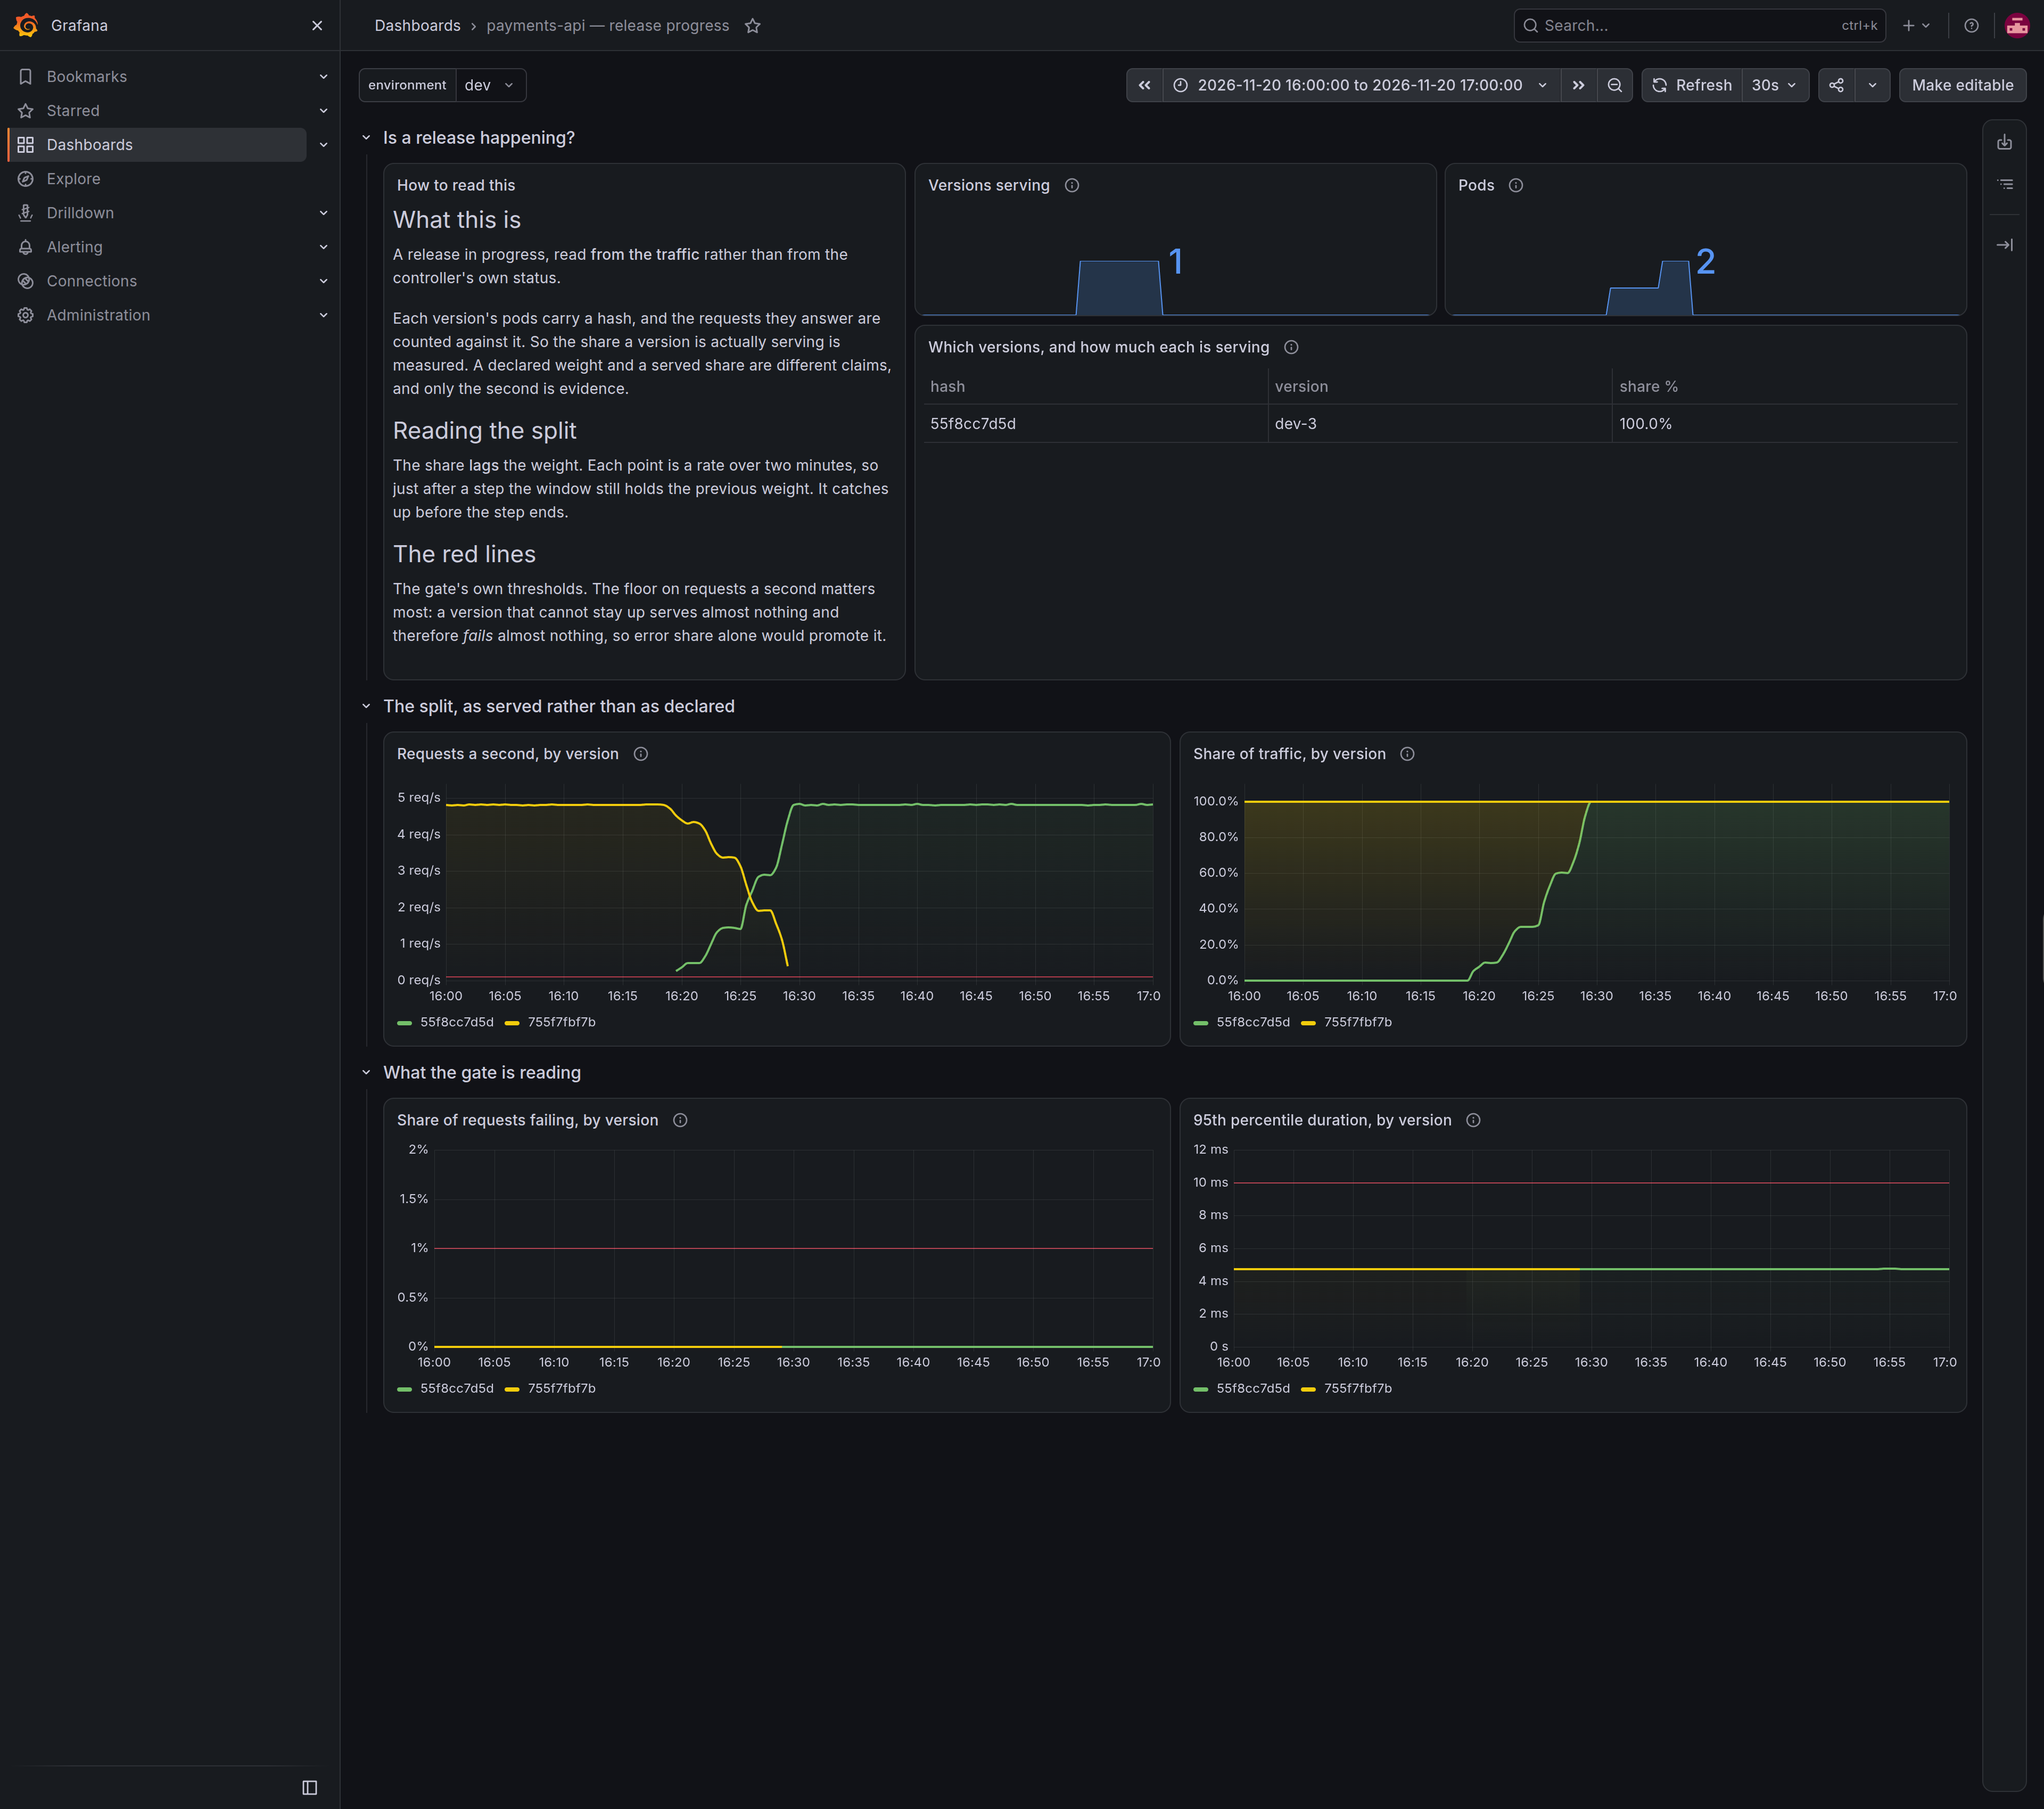
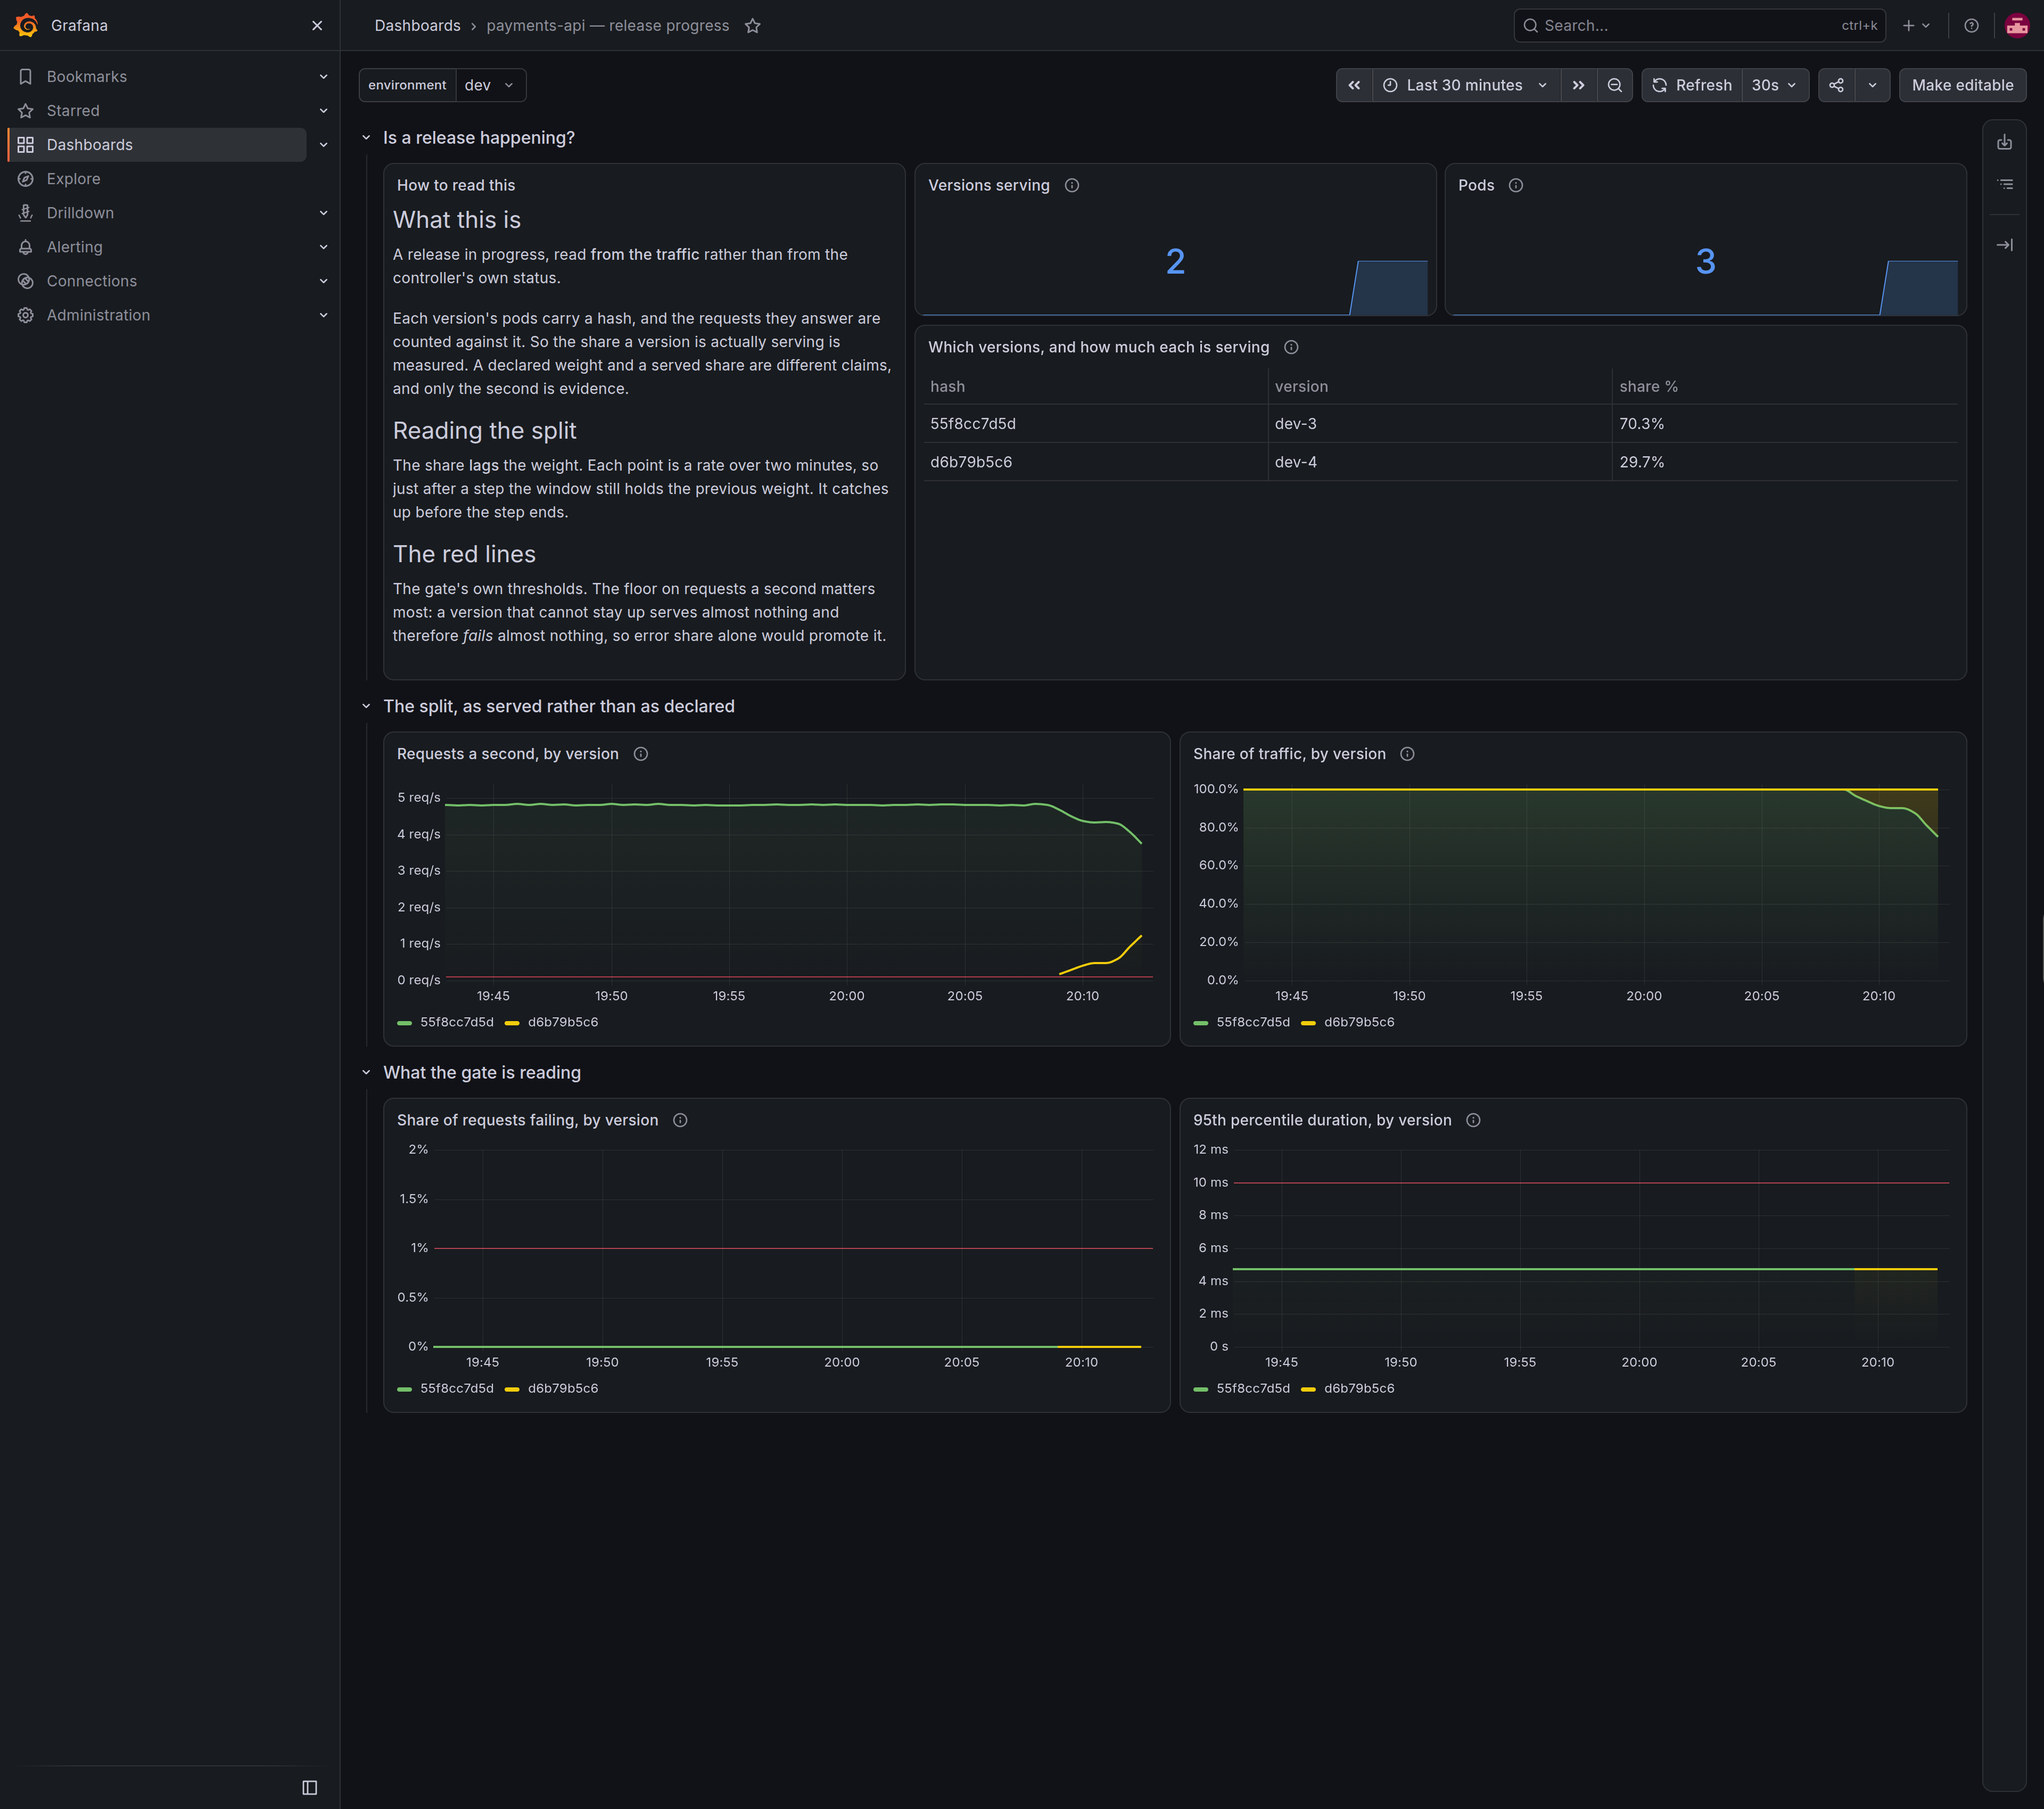
Commit evidence from a running platform, and show it in the README

diff --git a/README.md b/README.md
@@ -67,10 +67,11 @@ closely: a version that cannot stay up serves almost nothing and therefore
 version on a perfect record.** That is not theoretical — it is demonstrated,
 the numbers are in [`docs/decisions.md`](docs/decisions.md).
 
-![A release in progress, with the traffic split measured per version](docs/evidence/release-progress.png)
+![Two versions of the API serving at once, with the traffic split measured per version](docs/evidence/release-progress.png)
 
-Above: a release of the API, read **from the traffic** rather than from the
-controller's status. Each version's pods carry a hash and the requests they
+Above: a release caught in progress. Two versions of the API are serving at
+once — the trusted one on 70.3% of requests, the candidate on 29.7% — and that
+split is read **from the traffic** rather than from the controller's status. Each version's pods carry a hash and the requests they
 answer are counted against it, so the share each version is serving is measured
 rather than asserted. The red lines are the gate's own thresholds.
 

diff --git a/docs/evidence/README.md b/docs/evidence/README.md
@@ -15,11 +15,17 @@ sessions and these show one particular afternoon.
 
 ![A release in progress](release-progress.png)
 
-**Dashboard:** *payments-api — release progress*, `dev`, 16:00–17:00 local.
+**Dashboard:** *payments-api — release progress*, `dev`, captured **during** a
+release rather than after one.
 
-The green line is `dev-3`, the candidate. The yellow is `dev-2`, the version it
-replaced. Traffic crosses over at about 16:26 and the release completes at
-16:30.
+Two versions are serving at once. `dev-3` holds 70.3% and `dev-4` — the
+candidate, four minutes old — holds **29.7%**, against a weight the controller
+declared as 30%. Three pods: two on the trusted version, one on the version
+being tried.
+
+A canary costs one pod, not two. Any weight below 100% rounds a two-replica
+service to a single candidate, which is why the pod count reads three rather
+than four.
 
 **The point of this image is that the split is measured, not declared.** Each
 version's pods carry a hash; the requests they answer are counted against it.
